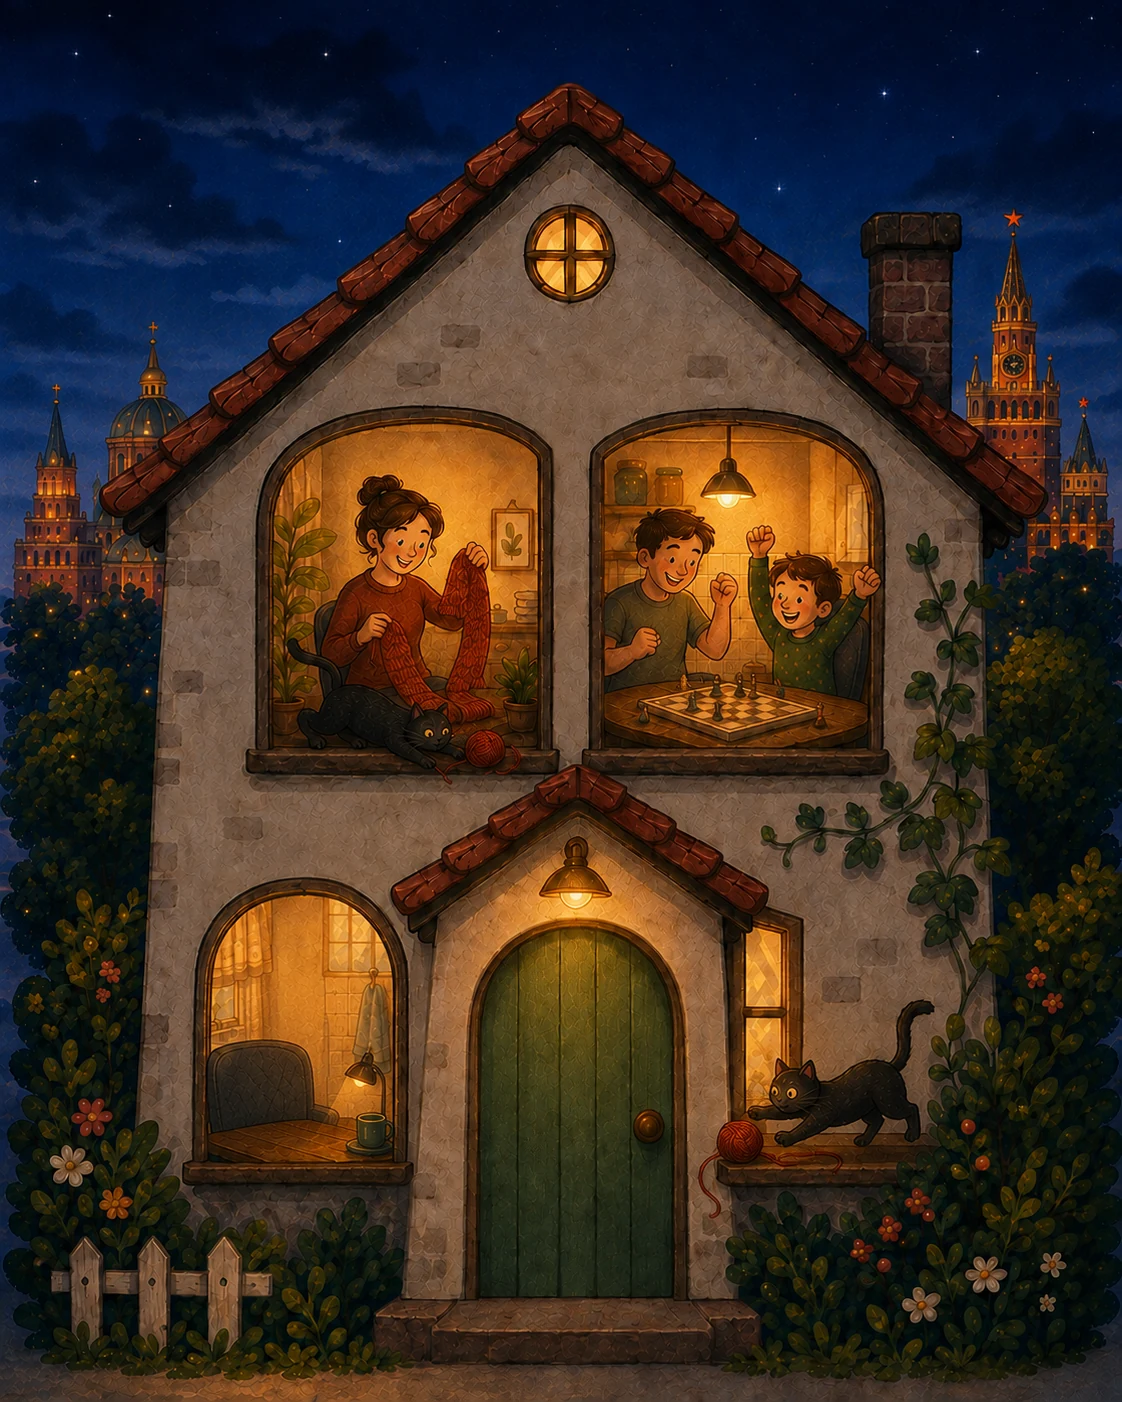
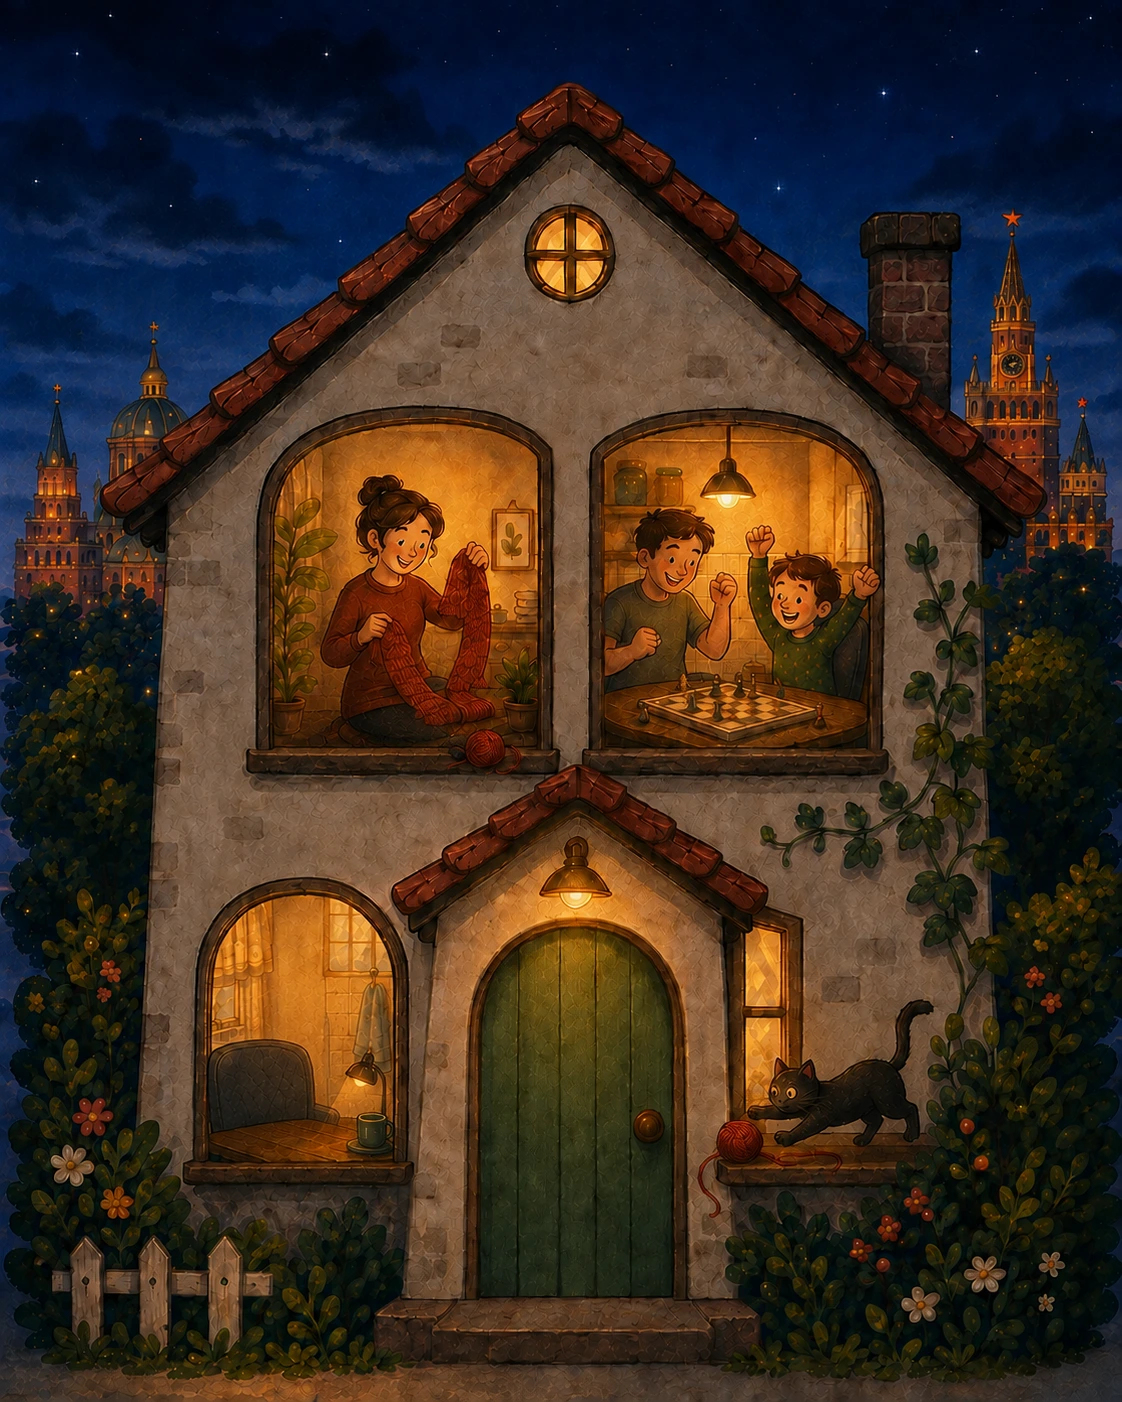
fix(android): стартовый экран и кнопка VPN (#2)
Исправляет первое открытие приложения, отображение кнопки питания и вечернюю иллюстрацию.

Версия: 1.0.1 (10001).

diff --git a/client/web/views/root_view/privacy_acknowledgement_dialog/index.ts b/client/web/views/root_view/privacy_acknowledgement_dialog/index.ts
@@ -14,7 +14,7 @@
 import {LitElement, html, css} from 'lit';
 import {customElement, property} from 'lit/decorators.js';
 
-import privacyLock from '../../../assets/privacy-lock.png';
+import vDomikeLogo from '../../../assets/v-domike-logo.png';
 
 @customElement('privacy-acknowledgement-dialog')
 export class PrivacyAcknowledgementDialog extends LitElement {
@@ -64,8 +64,11 @@ export class PrivacyAcknowledgementDialog extends LitElement {
     }
 
     img {
-      width: 112px;
-      height: 158px;
+      width: 128px;
+      height: 128px;
+      border-radius: 28px;
+      box-shadow: 0 10px 28px rgb(74 44 29 / 18%);
+      object-fit: cover;
       pointer-events: none;
       -webkit-user-select: none;
       user-select: none;
@@ -107,7 +110,7 @@ export class PrivacyAcknowledgementDialog extends LitElement {
       >
         <article slot="content">
           <figure>
-            <img alt="Privacy lock" src="${privacyLock}" />
+            <img alt="Логотип В домике" src="${vDomikeLogo}" />
           </figure>
           <h2>${this.localize('privacy-title')}</h2>
           <p>${this.localize('privacy-text')}</p>

diff --git a/client/web/views/servers_view/server_list/index.ts b/client/web/views/servers_view/server_list/index.ts
@@ -12,6 +12,8 @@
 */
 
 import {Localizer} from '@outline/infrastructure/i18n';
+import '@polymer/iron-icon/iron-icon.js';
+import '@polymer/iron-icons/iron-icons.js';
 import {css, html, LitElement} from 'lit';
 import {customElement, property, state} from 'lit/decorators.js';
 
@@ -302,7 +304,9 @@ export class ServerList extends LitElement {
     }
     .power-icon {
       color: #fffdf0;
-      font-size: 46px;
+      width: 54px;
+      height: 54px;
+      pointer-events: none;
     }
     .door-label {
       padding: 3px 7px;
@@ -565,7 +569,7 @@ export class ServerList extends LitElement {
           @click=${this.toggleConnection}
         >
           <span class="door-button-content">
-            <md-icon class="power-icon">power_settings_new</md-icon>
+            <iron-icon class="power-icon" icon="power-settings-new"></iron-icon>
             <span class="door-label"
               >${connected ? 'Выключить' : 'Включить'}</span
             >

diff --git a/client/web/index_cordova.html b/client/web/index_cordova.html
@@ -18,7 +18,7 @@
 <html dir="ltr">
   <head>
     <meta charset="UTF-8" />
-    <title>Outline</title>
+    <title>В домике</title>
     <meta name="viewport" content="width=device-width, minimum-scale=1.0, initial-scale=1.0, user-scalable=no, viewport-fit=cover" />
     <!-- See https://github.com/webcomponents/custom-elements#es5-vs-es2015 -->
     <script src="webcomponentsjs/custom-elements-es5-adapter.js"></script>

diff --git a/design-qa.md b/design-qa.md
@@ -1,0 +1,16 @@
+# Design QA — Android patch 1.0.1
+
+Status: **passed**
+
+Reference: real Android screenshot supplied by the owner on 2026-09-04.
+
+Checked at the Storybook `Large mobile (P)` viewport (414 × 896):
+
+- The power icon is rendered from the Polymer Material icon library, remains fully visible, and is centered on the door.
+- The button label remains centered below the icon and does not clip it.
+- The evening scene contains exactly one cat: the cat to the right of the door.
+- The first-run privacy screen uses the “В домике” house icon and no Outline logo.
+- The existing warm palette, profiles panel, VPN status pill, and interaction layout are unchanged.
+
+Local comparison artifact: `output/design-qa-comparison.png`.
+Local first-run artifact: `output/design-qa-privacy.png`.
